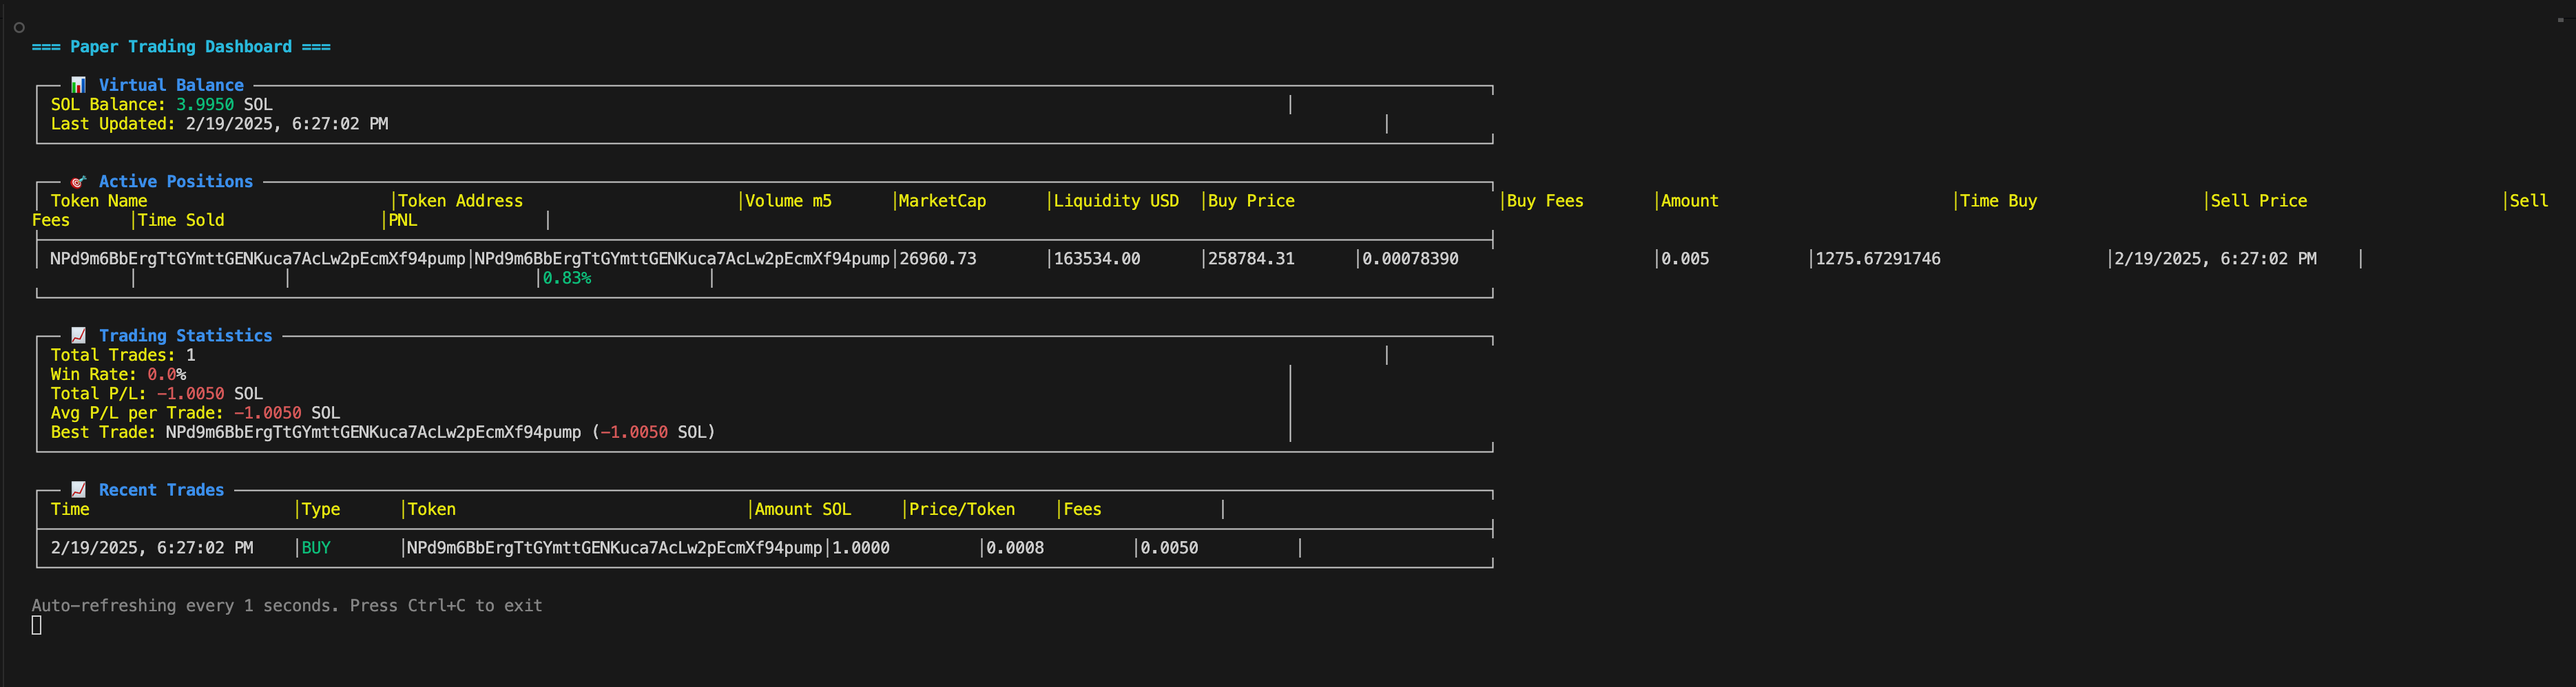
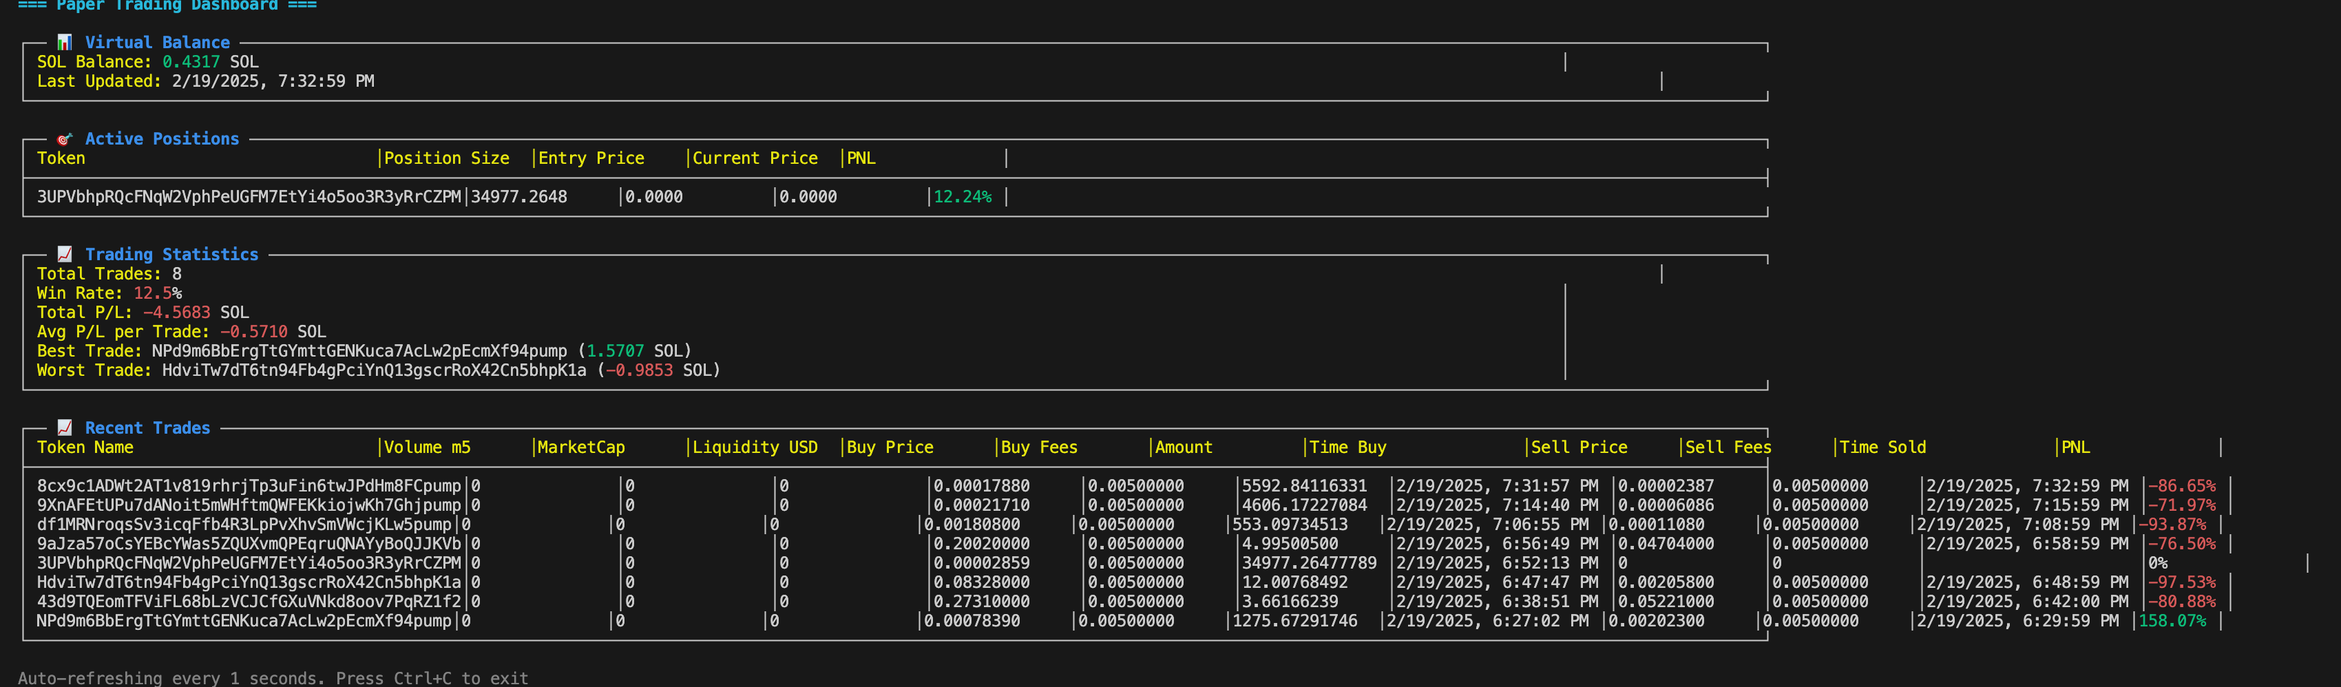
Update dashboard assets and paper trading database

diff --git a/src/cli/paper-trading-dashboard.ts b/src/cli/paper-trading-dashboard.ts
@@ -5,10 +5,11 @@ import { initializePaperTradingDB } from "../tracker/paper_trading";
 import { config } from "../config";
 
 const DB_PATH = "src/tracker/paper_trading.db";
-const TABLE_WIDTH = 150;
-const TOKEN_COL_WIDTH = 35;
-const NUM_COL_WIDTH = 15;
+const TABLE_WIDTH = 200;
+const TOKEN_COL_WIDTH = 45;
+const NUM_COL_WIDTH = 18;
 const TIME_COL_WIDTH = 25;
+const PRICE_COL_WIDTH = 20;
 
 interface TokenPosition {
     token_mint: string;
@@ -62,32 +63,39 @@ const BOX = {
 };
 
 function drawBox(title: string, content: string[]): void {
-    // Top border with title
-    console.log('\n' + BOX.topLeft + BOX.horizontal.repeat(2) + 
-                chalk.bold.blue(` ${title} `) + 
-                BOX.horizontal.repeat(TABLE_WIDTH - title.length - 4) + BOX.topRight);
+    const titleBar = chalk.bold.blue(` ${title} `);
+    const fullWidth = TABLE_WIDTH;
     
-    // Content with side borders
+    // Top border with title
+    console.log('\n' + BOX.topLeft + BOX.horizontal.repeat(2) +
+                titleBar +
+                BOX.horizontal.repeat(fullWidth - titleBar.length - 4) + BOX.topRight);
+    
+    // Content lines
     content.forEach(line => {
-        console.log(BOX.vertical + ' ' + line + ' '.repeat(Math.max(0, TABLE_WIDTH - line.length - 2)) + BOX.vertical);
+        const paddedLine = line.padEnd(fullWidth - 3); // -3 for the border chars and space
+        console.log(BOX.vertical + ' ' + paddedLine + ' ' + BOX.vertical);
     });
     
     // Bottom border
-    console.log(BOX.bottomLeft + BOX.horizontal.repeat(TABLE_WIDTH) + BOX.bottomRight);
+    console.log(BOX.bottomLeft + BOX.horizontal.repeat(fullWidth) + BOX.bottomRight);
 }
 
 function drawTable(headers: string[], rows: string[][], title: string): void {
-    const headerLine = headers.join(BOX.vertical);
-    const separator = BOX.horizontal.repeat(TABLE_WIDTH);
+    const titleBar = chalk.bold.blue(` ${title} `);
+    const fullWidth = TABLE_WIDTH;
     
-    console.log('\n' + BOX.topLeft + BOX.horizontal.repeat(2) + 
-                chalk.bold.blue(` ${title} `) + 
-                BOX.horizontal.repeat(TABLE_WIDTH - title.length - 4) + BOX.topRight);
+    // Top border with title
+    console.log('\n' + BOX.topLeft + BOX.horizontal.repeat(2) +
+                titleBar +
+                BOX.horizontal.repeat(fullWidth - titleBar.length - 4) + BOX.topRight);
     
     // Headers
+    const headerLine = headers.join(BOX.vertical);
     console.log(BOX.vertical + ' ' + chalk.yellow(headerLine) + ' ' + BOX.vertical);
     
     // Separator after headers
+    const separator = BOX.horizontal.repeat(fullWidth);
     console.log(BOX.leftT + separator + BOX.rightT);
     
     // Data rows
@@ -127,45 +135,22 @@ async function displayActivePositions(): Promise<void> {
 
         if (positions.length > 0) {
             const headers = [
-                'Token Name'.padEnd(TOKEN_COL_WIDTH),
-                'Token Address'.padEnd(TOKEN_COL_WIDTH),
-                'Volume m5'.padEnd(NUM_COL_WIDTH),
-                'MarketCap'.padEnd(NUM_COL_WIDTH),
-                'Liquidity USD'.padEnd(NUM_COL_WIDTH),
-                'Buy Price'.padEnd(NUM_COL_WIDTH * 2),
-                'Buy Fees'.padEnd(NUM_COL_WIDTH),
-                'Amount'.padEnd(NUM_COL_WIDTH * 2),
-                'Time Buy'.padEnd(TIME_COL_WIDTH),
-                'Sell Price'.padEnd(NUM_COL_WIDTH * 2),
-                'Sell Fees'.padEnd(NUM_COL_WIDTH),
-                'Time Sold'.padEnd(TIME_COL_WIDTH),
+                'Token'.padEnd(TOKEN_COL_WIDTH),
+                'Position Size'.padEnd(NUM_COL_WIDTH),
+                'Entry Price'.padEnd(PRICE_COL_WIDTH),
+                'Current Price'.padEnd(PRICE_COL_WIDTH),
                 'PNL'.padEnd(NUM_COL_WIDTH)
             ];
 
             const rows = positions.map(pos => {
                 const pnlPercent = ((pos.current_price - pos.buy_price) / pos.buy_price) * 100;
                 const pnlColor = pnlPercent >= 0 ? chalk.green : chalk.red;
-
-                // Get sell information from simulated trades if available
-                const sellInfo = pos.sell_time ? {
-                    price: pos.current_price.toFixed(8),
-                    time: new Date(pos.sell_time).toLocaleString()
-                } : { price: '', time: '' };
-
                 return [
                     pos.token_name.padEnd(TOKEN_COL_WIDTH),
-                    pos.token_mint.padEnd(TOKEN_COL_WIDTH),
-                    pos.volume_m5.toFixed(2).padEnd(NUM_COL_WIDTH),
-                    pos.market_cap.toFixed(2).padEnd(NUM_COL_WIDTH),
-                    pos.liquidity_usd.toFixed(2).padEnd(NUM_COL_WIDTH),
-                    pos.buy_price.toFixed(8).padEnd(NUM_COL_WIDTH * 2),
-                    '0.005'.padEnd(NUM_COL_WIDTH), // Fixed fee for now
-                    pos.amount.toFixed(8).padEnd(NUM_COL_WIDTH * 2),
-                    new Date(pos.buy_time).toLocaleString().padEnd(TIME_COL_WIDTH),
-                    sellInfo.price.padEnd(NUM_COL_WIDTH * 2),
-                    (sellInfo.price ? '0.005' : '').padEnd(NUM_COL_WIDTH),
-                    sellInfo.time.padEnd(TIME_COL_WIDTH),
-                    pnlColor(pnlPercent.toFixed(2) + '%'.padEnd(NUM_COL_WIDTH - 3)),
+                    pos.amount.toFixed(8).padEnd(NUM_COL_WIDTH),
+                    pos.buy_price.toFixed(8).padEnd(PRICE_COL_WIDTH),
+                    pos.current_price.toFixed(8).padEnd(PRICE_COL_WIDTH),
+                    pnlColor(pnlPercent.toFixed(2) + '%').padEnd(NUM_COL_WIDTH)
                 ];
             });
 
@@ -175,6 +160,97 @@ async function displayActivePositions(): Promise<void> {
         }
     } catch (error) {
         console.error('Error fetching active positions:', error);
+    }
+}
+
+async function displayRecentTrades(limit: number = 20): Promise<void> {
+    const connectionManager = ConnectionManager.getInstance(DB_PATH);
+    try {
+        const db = await connectionManager.getConnection();
+        const trades = await db.all(
+            'SELECT * FROM simulated_trades ORDER BY timestamp DESC LIMIT ?',
+            [limit * 2] // Fetch more to ensure we get both buy and sell
+        );
+        connectionManager.releaseConnection(db);
+
+        if (trades.length > 0) {
+            const headers = [
+                'Token Name'.padEnd(TOKEN_COL_WIDTH),
+                'Volume m5'.padEnd(NUM_COL_WIDTH),
+                'MarketCap'.padEnd(NUM_COL_WIDTH),
+                'Liquidity USD'.padEnd(NUM_COL_WIDTH),
+                'Buy Price'.padEnd(PRICE_COL_WIDTH),
+                'Buy Fees'.padEnd(NUM_COL_WIDTH),
+                'Amount'.padEnd(NUM_COL_WIDTH),
+                'Time Buy'.padEnd(TIME_COL_WIDTH),
+                'Sell Price'.padEnd(PRICE_COL_WIDTH),
+                'Sell Fees'.padEnd(NUM_COL_WIDTH),
+                'Time Sold'.padEnd(TIME_COL_WIDTH),
+                'PNL'.padEnd(NUM_COL_WIDTH)
+            ];
+
+            // Create a map to store unique trades by token
+            const tradeMap = new Map();
+            
+            // Process trades in chronological order to ensure buys come before sells
+            trades.sort((a, b) => a.timestamp - b.timestamp).forEach(trade => {
+                if (trade.type === 'buy' && !tradeMap.has(trade.token_mint)) {
+                    tradeMap.set(trade.token_mint, {
+                        token_name: trade.token_name || trade.token_mint,
+                        volume_m5: Number(trade.volume_m5) || 0,
+                        market_cap: Number(trade.market_cap) || 0,
+                        liquidity_usd: Number(trade.liquidity_usd) || 0,
+                        buy_price: Number(trade.price_per_token),
+                        buy_fees: Number(trade.fees),
+                        amount: Number(trade.amount_token),
+                        buy_time: trade.timestamp,
+                        sell_price: null,
+                        sell_fees: null,
+                        sell_time: null
+                    });
+                } else if (trade.type === 'sell') {
+                    const existingTrade = tradeMap.get(trade.token_mint);
+                    if (existingTrade && !existingTrade.sell_time) {
+                        existingTrade.sell_price = Number(trade.price_per_token);
+                        existingTrade.sell_fees = Number(trade.fees);
+                        existingTrade.sell_time = trade.timestamp;
+                    }
+                }
+            });
+
+            const rows = Array.from(tradeMap.entries())
+                .sort(([, a], [, b]) => (b.buy_time || 0) - (a.buy_time || 0))
+                .slice(0, limit)
+                .map(([, trade]) => {
+                    const pnl = trade.sell_price
+                        ? ((trade.sell_price - trade.buy_price) / trade.buy_price * 100)
+                        : 0;
+                    const pnlFormatted = trade.sell_price
+                        ? (pnl >= 0 ? chalk.green : chalk.red)(`${pnl.toFixed(2)}%`)
+                        : '0%';
+
+                    return [
+                        trade.token_name.padEnd(TOKEN_COL_WIDTH),
+                        (trade.volume_m5 ? trade.volume_m5.toFixed(2) : '0').padEnd(NUM_COL_WIDTH),
+                        (trade.market_cap ? trade.market_cap.toFixed(2) : '0').padEnd(NUM_COL_WIDTH),
+                        (trade.liquidity_usd ? trade.liquidity_usd.toFixed(2) : '0').padEnd(NUM_COL_WIDTH),
+                        trade.buy_price.toFixed(8).padEnd(PRICE_COL_WIDTH),
+                        trade.buy_fees.toFixed(8).padEnd(NUM_COL_WIDTH),
+                        trade.amount.toFixed(8).padEnd(NUM_COL_WIDTH),
+                        new Date(trade.buy_time).toLocaleString().padEnd(TIME_COL_WIDTH),
+                        (trade.sell_price ? trade.sell_price.toFixed(8) : '0').padEnd(PRICE_COL_WIDTH),
+                        (trade.sell_fees ? trade.sell_fees.toFixed(8) : '0').padEnd(NUM_COL_WIDTH),
+                        (trade.sell_time ? new Date(trade.sell_time).toLocaleString() : '').padEnd(TIME_COL_WIDTH),
+                        pnlFormatted.padEnd(NUM_COL_WIDTH)
+                    ];
+                });
+
+            drawTable(headers, rows, '📈 Recent Trades');
+        } else {
+            drawBox('📈 Recent Trades', [chalk.yellow('No trades recorded yet')]);
+        }
+    } catch (error) {
+        console.error('Error fetching recent trades:', error);
     }
 }
 
@@ -196,61 +272,6 @@ async function displayTradingStats(stats: TradingStats): Promise<void> {
     }
 
     drawBox('📈 Trading Statistics', content);
-}
-
-async function displayRecentTrades(limit: number = 20): Promise<void> {
-    const connectionManager = ConnectionManager.getInstance(DB_PATH);
-    try {
-        const db = await connectionManager.getConnection();
-        const trades = await db.all(
-            'SELECT * FROM simulated_trades ORDER BY timestamp DESC LIMIT ?',
-            [limit]
-        );
-        connectionManager.releaseConnection(db);
-
-        if (trades.length > 0) {
-            const headers = [
-                'Time'.padEnd(TIME_COL_WIDTH),
-                'Type'.padEnd(10),
-                'Token'.padEnd(TOKEN_COL_WIDTH),
-                'Amount SOL'.padEnd(NUM_COL_WIDTH),
-                'Price/Token'.padEnd(NUM_COL_WIDTH),
-                'Fees'.padEnd(NUM_COL_WIDTH)
-            ];
-
-            const rows = trades.map(trade => [
-                new Date(trade.timestamp).toLocaleString().padEnd(TIME_COL_WIDTH),
-                (trade.type === 'buy' ? chalk.green : chalk.red)(trade.type.toUpperCase().padEnd(10)),
-                trade.token_mint.padEnd(TOKEN_COL_WIDTH),
-                trade.amount_sol.toFixed(4).padEnd(NUM_COL_WIDTH),
-                trade.price_per_token.toFixed(4).padEnd(NUM_COL_WIDTH),
-                trade.fees.toFixed(4).padEnd(NUM_COL_WIDTH)
-            ]);
-
-            drawTable(headers, rows, '📈 Recent Trades');
-        } else {
-            drawBox('📈 Recent Trades', [chalk.yellow('No trades recorded yet')]);
-        }
-    } catch (error) {
-        console.error('Error fetching recent trades:', error);
-    }
-}
-
-async function displayDashboard(): Promise<void> {
-    console.clear();
-    console.log(chalk.bold.cyan('\n=== Paper Trading Dashboard ==='));
-    
-    await displayVirtualBalance();
-    await displayActivePositions();
-    
-    const stats = await calculateTradingStats();
-    if (stats) {
-        await displayTradingStats(stats);
-    }
-    
-    await displayRecentTrades();
-
-    console.log('\n' + chalk.gray(`Auto-refreshing every ${config.paper_trading.dashboard_refresh/1000} seconds. Press Ctrl+C to exit`));
 }
 
 async function calculateTradingStats(): Promise<TradingStats | null> {
@@ -317,6 +338,23 @@ async function calculateTradingStats(): Promise<TradingStats | null> {
         console.error('Error calculating trading stats:', error);
         return null;
     }
+}
+
+async function displayDashboard(): Promise<void> {
+    console.clear();
+    console.log(chalk.bold.cyan('\n=== Paper Trading Dashboard ==='));
+    
+    await displayVirtualBalance();
+    await displayActivePositions();
+    
+    const stats = await calculateTradingStats();
+    if (stats) {
+        await displayTradingStats(stats);
+    }
+    
+    await displayRecentTrades();
+
+    console.log('\n' + chalk.gray(`Auto-refreshing every ${config.paper_trading.dashboard_refresh/1000} seconds. Press Ctrl+C to exit`));
 }
 
 async function startDashboard(): Promise<void> {
